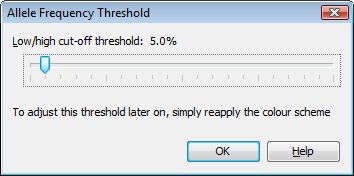
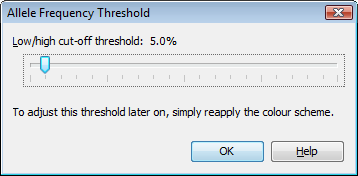
- CHG: Modified the text (and images) for dialogs that use sentences. - NEW: Added a right-click menu option to the navigation panel for deleting bookmarks. - NEW: Added help text on deleting bookmarks.

diff --git a/src/flapjack/gui/Actions.java b/src/flapjack/gui/Actions.java
@@ -51,6 +51,7 @@ public class Actions
 	public static AbstractAction vizToggleCanvas;
 	public static AbstractAction vizOverview;
 	public static AbstractAction vizBookmark;
+	public static AbstractAction vizDeleteBookmark;
 
 	public static AbstractAction dataSortLinesBySimilarity;
 	public static AbstractAction dataSortLinesByTrait;
@@ -328,6 +329,12 @@ public class Actions
 			}
 		};
 
+		vizDeleteBookmark = new AbstractAction(RB.getString("gui.Actions.vizDeleteBookmark"), getIcon(Icons.DELETE)) {
+			public void actionPerformed(ActionEvent e) {
+				winMain.mViz.vizDeleteBookmark();
+			}
+		};
+
 		vizOverview = new AbstractAction(RB.getString("gui.Actions.vizOverview")) {
 			public void actionPerformed(ActionEvent e) {
 				winMain.mViz.vizOverview();
@@ -476,6 +483,7 @@ public class Actions
 		vizToggleCanvas.setEnabled(false);
 		vizOverview.setEnabled(false);
 		vizBookmark.setEnabled(false);
+		vizDeleteBookmark.setEnabled(false);
 
 		dataSortLinesBySimilarity.setEnabled(false);
 		dataSortLinesByTrait.setEnabled(false);

diff --git a/src/flapjack/gui/navpanel/NavPanelMenu.java b/src/flapjack/gui/navpanel/NavPanelMenu.java
@@ -20,6 +20,7 @@ public class NavPanelMenu extends MouseInputAdapter
 	private JMenuItem vizNewView;
 	private JMenuItem vizRenameView;
 	private JMenuItem vizDeleteView;
+	private JMenuItem vizDeleteBookmark;
 
 	public NavPanelMenu(JTree tree)
 	{
@@ -38,6 +39,7 @@ public class NavPanelMenu extends MouseInputAdapter
 		vizNewView = WinMainMenuBar.getItem(Actions.vizNewView, "gui.Actions.vizNewView", 0, 0);
 		vizRenameView = WinMainMenuBar.getItem(Actions.vizRenameView, "gui.Actions.vizRenameView", 0, 0);
 		vizDeleteView = WinMainMenuBar.getItem(Actions.vizDeleteView, "gui.Actions.vizDeleteView", 0, 0);
+		vizDeleteBookmark = WinMainMenuBar.getItem(Actions.vizDeleteBookmark, "gui.Actions.vizDeleteBookmark", 0, 0);
 	}
 
 	void handlePopup(MouseEvent e)
@@ -66,6 +68,11 @@ public class NavPanelMenu extends MouseInputAdapter
 			menu.add(vizNewView);
 			menu.add(vizRenameView);
 			menu.add(vizDeleteView);
+		}
+
+		else if (node instanceof BookmarkNode)
+		{
+			menu.add(vizDeleteBookmark);
 		}
 
 		else

diff --git a/src/flapjack/gui/NavPanel.java b/src/flapjack/gui/NavPanel.java
@@ -255,6 +255,18 @@ class NavPanel extends JPanel
 		treeModel.removeNodeFromParent(node);
 	}
 
+	Bookmark removeSelectedBookmarkNode()
+	{
+		BookmarkNode node = (BookmarkNode) tree.getLastSelectedPathComponent();
+		BaseNode baseNode = (BaseNode) node.getParent();
+
+		treeModel.removeNodeFromParent(node);
+		tree.setSelectionPath(new TreePath(baseNode.getPath()));
+		tree.scrollPathToVisible(new TreePath(baseNode.getPath()));
+
+		return node.getBookmark();
+	}
+
 	TraitsPanel getTraitsPanel(DataSet dataSet)
 	{
 		DataSetNode dataSetNode = findDataSetNode(dataSet);

diff --git a/src/flapjack/gui/MenuVisualization.java b/src/flapjack/gui/MenuVisualization.java
@@ -180,5 +180,19 @@ public class MenuVisualization
 
 		view.getViewSet().getBookmarks().add(bookmark);
 		navPanel.addedNewBookmarkNode(view.getViewSet(), bookmark);
+
+		Actions.projectModified();
+	}
+
+	void vizDeleteBookmark()
+	{
+		GTViewSet viewSet = gPanel.getViewSet();
+
+		// Remove the bookmark from the navigation panel
+		Bookmark bookmark = navPanel.removeSelectedBookmarkNode();
+		// And then remove it from the project
+		viewSet.getBookmarks().remove(bookmark);
+
+		Actions.projectModified();
 	}
 }

diff --git a/src/flapjack/gui/navpanel/BookmarkNode.java b/src/flapjack/gui/navpanel/BookmarkNode.java
@@ -31,6 +31,9 @@ public class BookmarkNode extends BaseNode
 			+ " / " + bookmark.getMarker().getName();
 	}
 
+	public Bookmark getBookmark()
+		{ return bookmark; }
+
 	public GTViewSet getViewSet()
 		{ return parent.getViewSet(); }
 
@@ -46,6 +49,7 @@ public class BookmarkNode extends BaseNode
 
 		Actions.vizRenameView.setEnabled(false);
 		Actions.vizDeleteView.setEnabled(false);
+		Actions.vizDeleteBookmark.setEnabled(true);
 	}
 
 	public JPanel getPanel()
